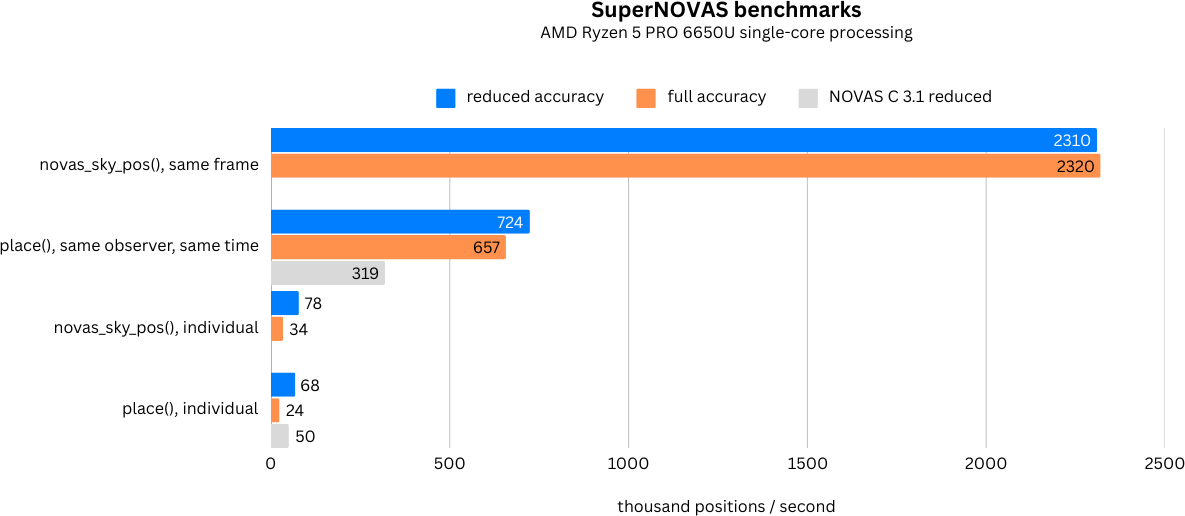
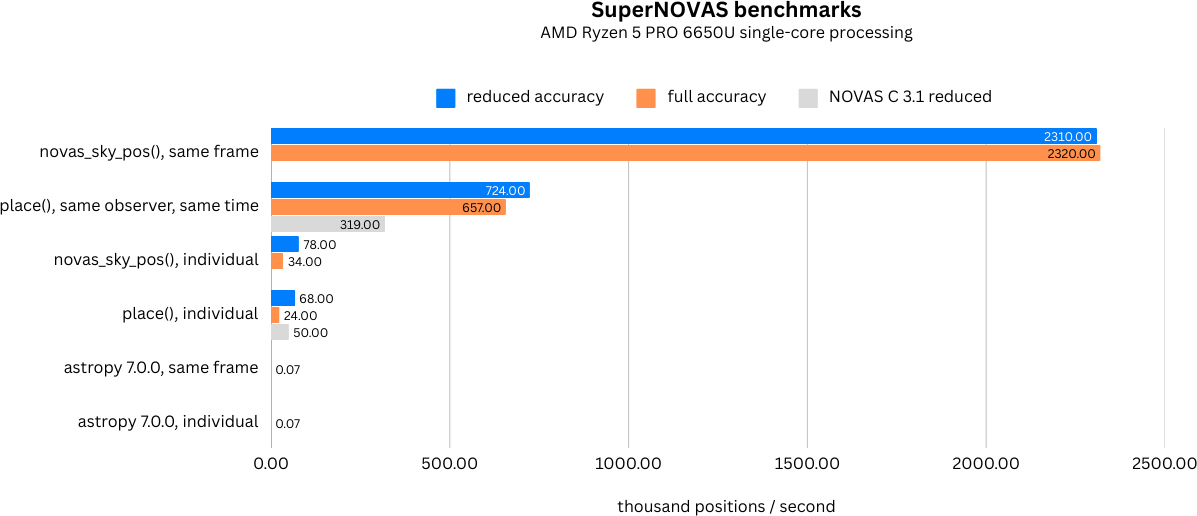
Fig. 2 tweak and site update

diff --git a/README.md b/README.md
@@ -865,6 +865,11 @@ summarizes the single-threaded results obtained on an AMD Ryzen 5 PRO 6650U lapt
 state of the art for today's server class machines, it nevertheless gives you a ballpark idea for how a typical, not 
 so new, run-of-the-mill PC might perform.
 
+| ![SuperNOVAS benchmarks](resources/SuperNOVAS-benchmark.png) |
+|:--:| 
+| __Figure 2.__ SuperNOVAS apparent position calculation benchmarks, including proper motion, the IAU 2000 precession-nutation model, polar wobble, aberration, and gravitational deflection corrections, and precise spectroscopic redhift calculations. |
+
+
 The tests calculate apparent positions (in CIRS) for a set of sidereal sources with random parameters, using either 
 the __SuperNOVAS__ `novas_sky_pos()` or the legacy NOVAS C `place()`, both in full accuracy and reduced accuracy 
 modes. The two methods are equivalent, and both include calculating a precise geometric position, as well as 
@@ -900,16 +905,14 @@ the `benchmark/` folder in the __SuperNOVAS__ GitHub repository).
  | __astropy__ 7.0.0 (python 3.13.1), same frame   |              67 |
  | __astropy__ 7.0.0 (python 3.13.1), individual   |              66 |
  
+
+Figure 2 offers a visual comparison for the above mentioned performance measures.
  
 As one may observe, the __SuperNOVAS__ `novas_sky_pos()` significantly outperforms the legacy `place()` function, when 
 repeatedly calculating positions for sources for the same instant of time and same observer location, providing up to 
 2 orders of magnitude faster performance than for inidividual observing times and/or observer locations. Also, when 
 observing frames are reused, the performance is essentially independent of the accuracy. By contrast, calculations for 
 individual observing times or observer locations are generally around 2x faster if reduced accuracy is sufficient.
-
-| ![SuperNOVAS benchmarks](resources/SuperNOVAS-benchmark.png) |
-|:--:| 
-| __Figure 2.__ SuperNOVAS apparent position calculation benchmarks, including proper motion, the IAU 2000 precession-nutation model, polar wobble, aberration, and gravitational deflection corrections, and precise spectroscopic redhift calculations. |
 
 
 The above benchmarks are all for single-threaded performance. Since __SuperNOVAS__ is generally thread-safe, you can 
